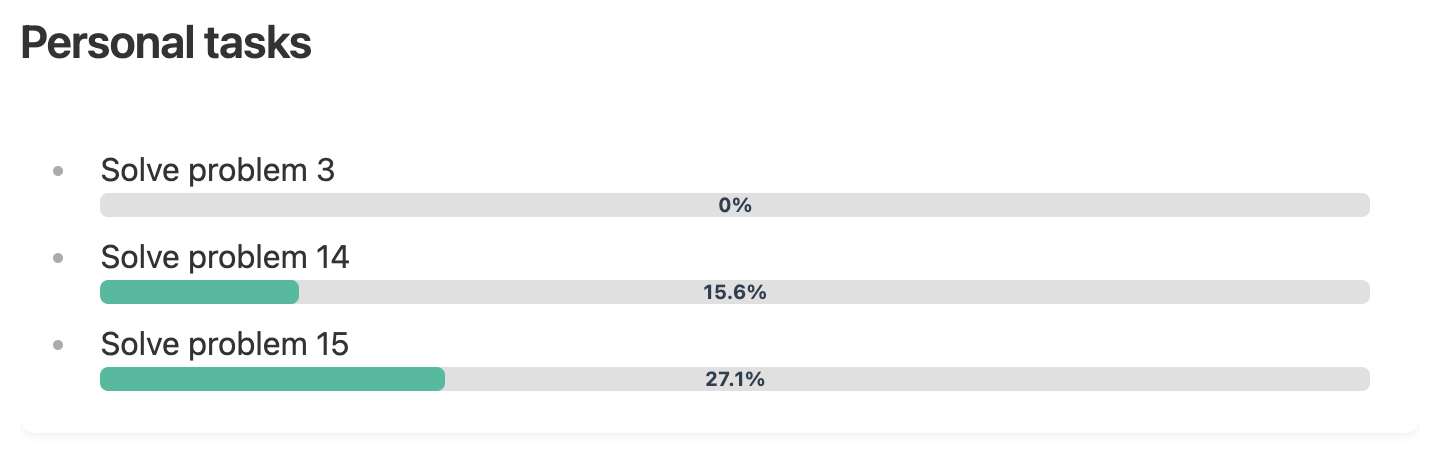
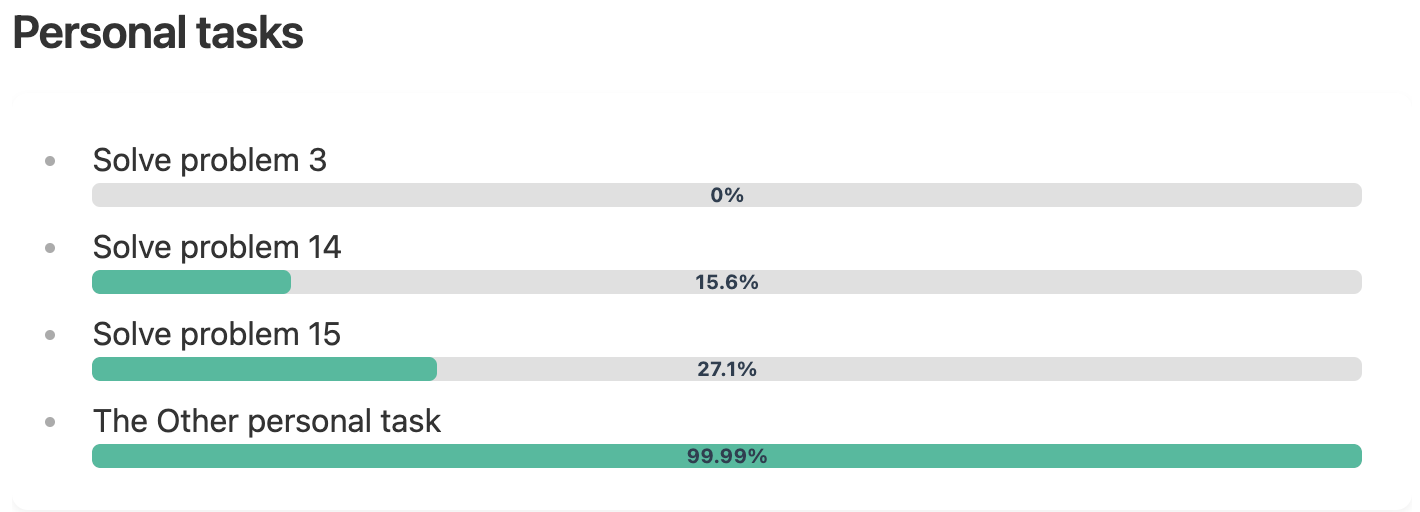
Update documentation

diff --git a/helpers/fetchProgress.ts b/helpers/fetchProgress.ts
@@ -39,12 +39,8 @@ const keepAliveName = 'keep_alive';
  * @returns A Promise that resolves to an HTMLElement.
  */
 export async function fetchProgress(session: string, keep_alive: string, source: Source): Promise<HTMLElement> {
-    // Define the path to the plugin's cache folder and ensure it exists
-    const folderPath = getPluginFolderPath();
-    await ensureFolderExists(folderPath);
-    const filePath = `${folderPath}/cache.json`;
-
     // Attempt to load cached data from the file
+    const filePath = await getFilePath();
     const savedData = await loadDataFromFile(filePath);
 
     // If cached data exists, generate and return HTML from it
@@ -53,7 +49,7 @@ export async function fetchProgress(session: string, keep_alive: string, source:
     }
 
     // If no cached data is available, try to fetch fresh data from the server
-    const fetchedData = await tryToFetchAndSaveProgress(session, keep_alive, filePath);
+    const fetchedData = await tryToFetchAndSaveProgress(session, keep_alive);
 
     // If fetching fresh data is successful, generate and return HTML from it
     if (fetchedData) {
@@ -66,18 +62,22 @@ export async function fetchProgress(session: string, keep_alive: string, source:
     return errorContainer;
 }
 
+async function getFilePath(): Promise<string> {
+	const folderPath = getPluginFolderPath();
+    await ensureFolderExists(folderPath);
+    return `${folderPath}/cache.json`;
+}
+
 function getPluginFolderPath(): string {
     return `${this.app.vault.configDir}/plugins/project-euler-stats/cache`;
 }
 
-async function tryToFetchAndSaveProgress(session: string, keep_alive: string, filePath: string): Promise<CacheData | null> {
+export async function tryToFetchAndSaveProgress(session: string, keep_alive: string): Promise<CacheData | null> {
+	const filePath = await getFilePath();
 	const cookies = `${sessionIdName}=${session}; ${keepAliveName}=${keep_alive}`;
 
     try {
         const cacheData = await tryToFetchProgress(cookies);
-
-        console.log('Я пошел фетчить прогресс, вот данные:', cacheData);
-
         await saveDataToFile(filePath, cacheData);
         return cacheData;
     } catch (error) {

diff --git a/main.ts b/main.ts
@@ -1,5 +1,5 @@
 import { App, Editor, MarkdownView, Modal, Notice, Plugin, PluginSettingTab, Setting } from 'obsidian';
-import { fetchProgress } from "helpers/fetchProgress";
+import { fetchProgress, tryToFetchAndSaveProgress } from "helpers/fetchProgress";
 import { extractSources } from "helpers/sourceExtractor";
 
 export default class ProjectEulerStatsPlugin extends Plugin {
@@ -10,14 +10,26 @@ export default class ProjectEulerStatsPlugin extends Plugin {
 
 		this.addSettingTab(new ProjectEulerStatsSettingTab(this.app, this));
 
-        const session = this.settings.session_id;
-        const keep_alive = this.settings.keep_alive;
-
 	    this.registerMarkdownCodeBlockProcessor('euler-stats', async (source, el, ctx) => {
 			const extractedSource = extractSources(source);
-            const stats = await fetchProgress(session, keep_alive, extractedSource);
+            const stats = await fetchProgress(this.settings.session_id, this.settings.keep_alive, extractedSource);
             const container = el.createEl('div');
             container.appendChild(stats);
+        });
+
+        this.addCommand({
+            id: 'sync-with-project-euler',
+            name: 'Sync with Project Euler',
+            callback: async () => {
+                try {
+                    const fetchedData = await tryToFetchAndSaveProgress(this.settings.session_id, this.settings.keep_alive);
+                    const message = fetchedData ? 'Successfully synced with Project Euler.' : 'Failed to sync with Project Euler. Please update your cookies in the settings and try again.';
+                    new Notice(message);
+                } catch (error) {
+                    console.error('Error during sync:', error);
+                    new Notice('Error during sync. Please check the console for details.');
+                }
+            },
         });
 	}
 

diff --git a/docs/index.md b/docs/index.md
@@ -2,7 +2,7 @@
 
 Welcome to the docs for the Project Euler Stats plugin for Obsidian!
 
-This plugin allows you to seamlessly integrate and display [Project Euler](https://projecteuler.net/)
+This plugin allows you to seamlessly integrate and display [Project Euler][projecteuler]
 profile statistics directly within your Obsidian notes.
 **Project Euler Stats** allows users to track their progress in solving problems on the Project Euler platform.
 By using a simple command, users can generate a detailed profile that displays their profile, progress,
@@ -100,15 +100,27 @@ Here, you can see your current tasks and how many problems you need to solve to 
 
 ### Personal tasks
 
-You can add your personal tasks:
+You can add and track your personal tasks using the `euler-stats` code block format.
+This allows you to monitor your progress on specific Project Euler problems directly or any another specific task
+in your Obsidian notes.
 
 ````
 ```euler-stats
 Solve problem 3; 0%
 Solve problem 14; 15.6%
 Solve problem 15; 27.1%
+The Other personal task; 99.99%
 ```
 ````
+
+Each task should be written in the following format:
+
+```
+<task>; <progress>%
+```
+
+- **`<task>`**: Your personal task.
+- **`<progress>`**: The percentage of progress you have made on the problem (e.g., `0%`, `15.6%`, `100%`).
 
 <img src="images/personal_tasks.png" alt="personal tasks" width="500" />
 
@@ -168,6 +180,47 @@ This section shows a leaderboard of your friends, including their ranks, usernam
 
 ---
 
+## Syncing with Project Euler
+
+By default, the plugin uses data from the **local cache** to avoid overloading the Project Euler website.
+This ensures faster access to your stats and reduces unnecessary requests to the server.
+
+### How to Sync Data
+
+To update your data with the latest information from Project Euler, follow these steps:
+
+1. Run the command **`Project Euler Stats: Sync with Project Euler`**.
+
+	- This command will fetch the latest data from the Project Euler website and update your local cache.
+
+   <img src="images/command.png" alt="Sync Command" width="500" />
+
+2. **Success Message**:
+
+	- If the sync is successful, you will see a notification:  
+	  **`Successfully synced with Project Euler.`**
+
+3. **Error Handling**:
+	- If the sync fails, it usually means that your session has expired.  
+	  **What to do if this happens:**
+		1. Go to the [Project Euler website][projecteuler] and log in.
+		2. Check the values of your cookies:
+			- `PHPSESSID`
+			- `keep_alive`
+		3. Update these values in the plugin's settings:
+			- Open the plugin settings in Obsidian.
+			- Replace the old `SessionId` and `Keep-Alive` values with the new ones.
+		4. Run the sync command again.
+
+### Example Workflow
+
+1. You’ve solved a new problem on Project Euler and want to update your stats in Obsidian.
+2. Run the **`Project Euler Stats: Sync with Project Euler`** command.
+3. If successful, your stats will now show the updated progress.
+4. If the sync fails, follow the steps above to update your session cookies and try again.
+
+---
+
 ## How to extract cookies?
 
 To retrieve cookies for a specific website from your browser, follow these steps:
@@ -221,18 +274,51 @@ This will return a string of all cookies for the current domain.
 
 ---
 
+Here’s the translated and enhanced version of the troubleshooting documentation:
+
+---
+
 ## Troubleshooting
 
-- **HTTP error!**:
-	- Ensure your `SessionId` and `Keep-Alive` cookie values is correctly configured in the plugin settings.
-	- Update your `SessionId` and `Keep-Alive` cookie values.
+### Common Issues and Solutions
+
+#### **HTTP Error!**
+
+If you encounter an HTTP error, follow these steps:
+
+1. **Check Your Cookie Values**:
+
+	- Ensure that your `SessionId` and `Keep-Alive` cookie values are correctly configured in the plugin settings.
+	- To update these values:
+		1. Log in to the [Project Euler website][site].
+		2. Retrieve the latest `PHPSESSID` and `keep_alive` values from your browser's cookies.
+		3. Update these values in the plugin settings in Obsidian.
+
+2. **If the Issue Persists**:
+
+	- Enable the **Obsidian Console** to gather more information about the error:
+		1. Open Obsidian.
+		2. Press `Ctrl+Shift+I` (Windows/Linux) or `Cmd+Option+I` (Mac) to open the Developer Tools.
+		3. Navigate to the **Console** tab to view error messages.
+
+3. **Report the Issue**:
+	- If the problem persists, please report it on [GitHub][github]:
+		1. Take a screenshot of the error message.
+		2. Copy the error logs from the Obsidian Console.
+		3. Open a new issue on the plugin’s GitHub repository and include:
+			- A description of the problem.
+			- The screenshot of the error message.
+			- The error logs from the Console.
 
 ---
 
 ## Support
 
-For issues or feature requests, please open an issue on the [GitHub repository](https://github.com/artemkorsakov/project-euler-stats).
+For issues or feature requests, please open an issue on the [GitHub repository][github].
 
 ---
 
 Enjoy tracking your Project Euler progress directly in Obsidian! 🚀
+
+[projecteuler]: https://projecteuler.net/
+[github]: https://github.com/artemkorsakov/project-euler-stats
